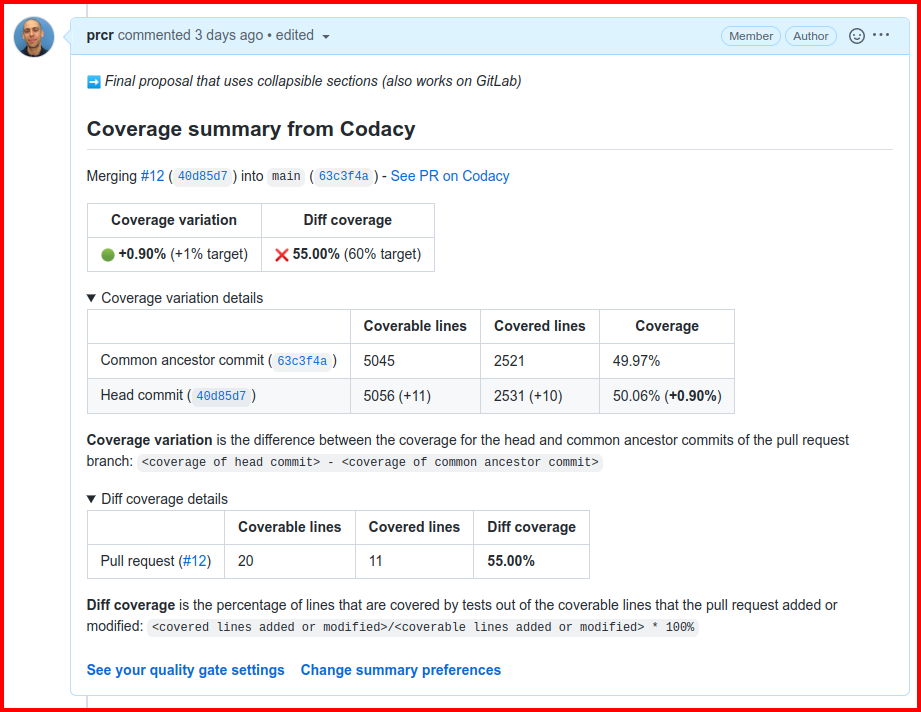
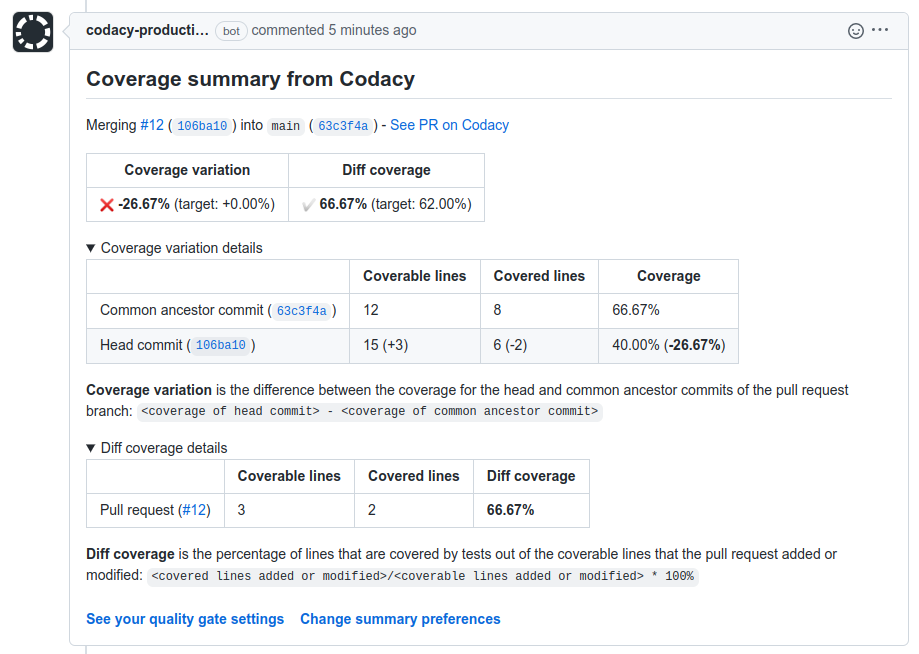
feat: Update screenshot of coverage summary

Changed region(s): [[0.0, 0.0, 1.0, 1.0]]

diff --git a/docs/repositories-configure/integrations/github-integration.md b/docs/repositories-configure/integrations/github-integration.md
@@ -63,7 +63,7 @@ When there are new coverage results, Codacy updates the last coverage summary co
 !!! important
     **To get coverage summaries** you must also [add coverage to your repository](../../coverage-reporter/index.md).
 
-![Coverage summary on GitHub](images/github-integration-coverage-summary.png)<!--TODO Update screenshot with final version-->
+![Coverage summary on GitHub](images/github-integration-coverage-summary.png)
 
 !!! note
     This feature is only supported on GitHub Cloud.
